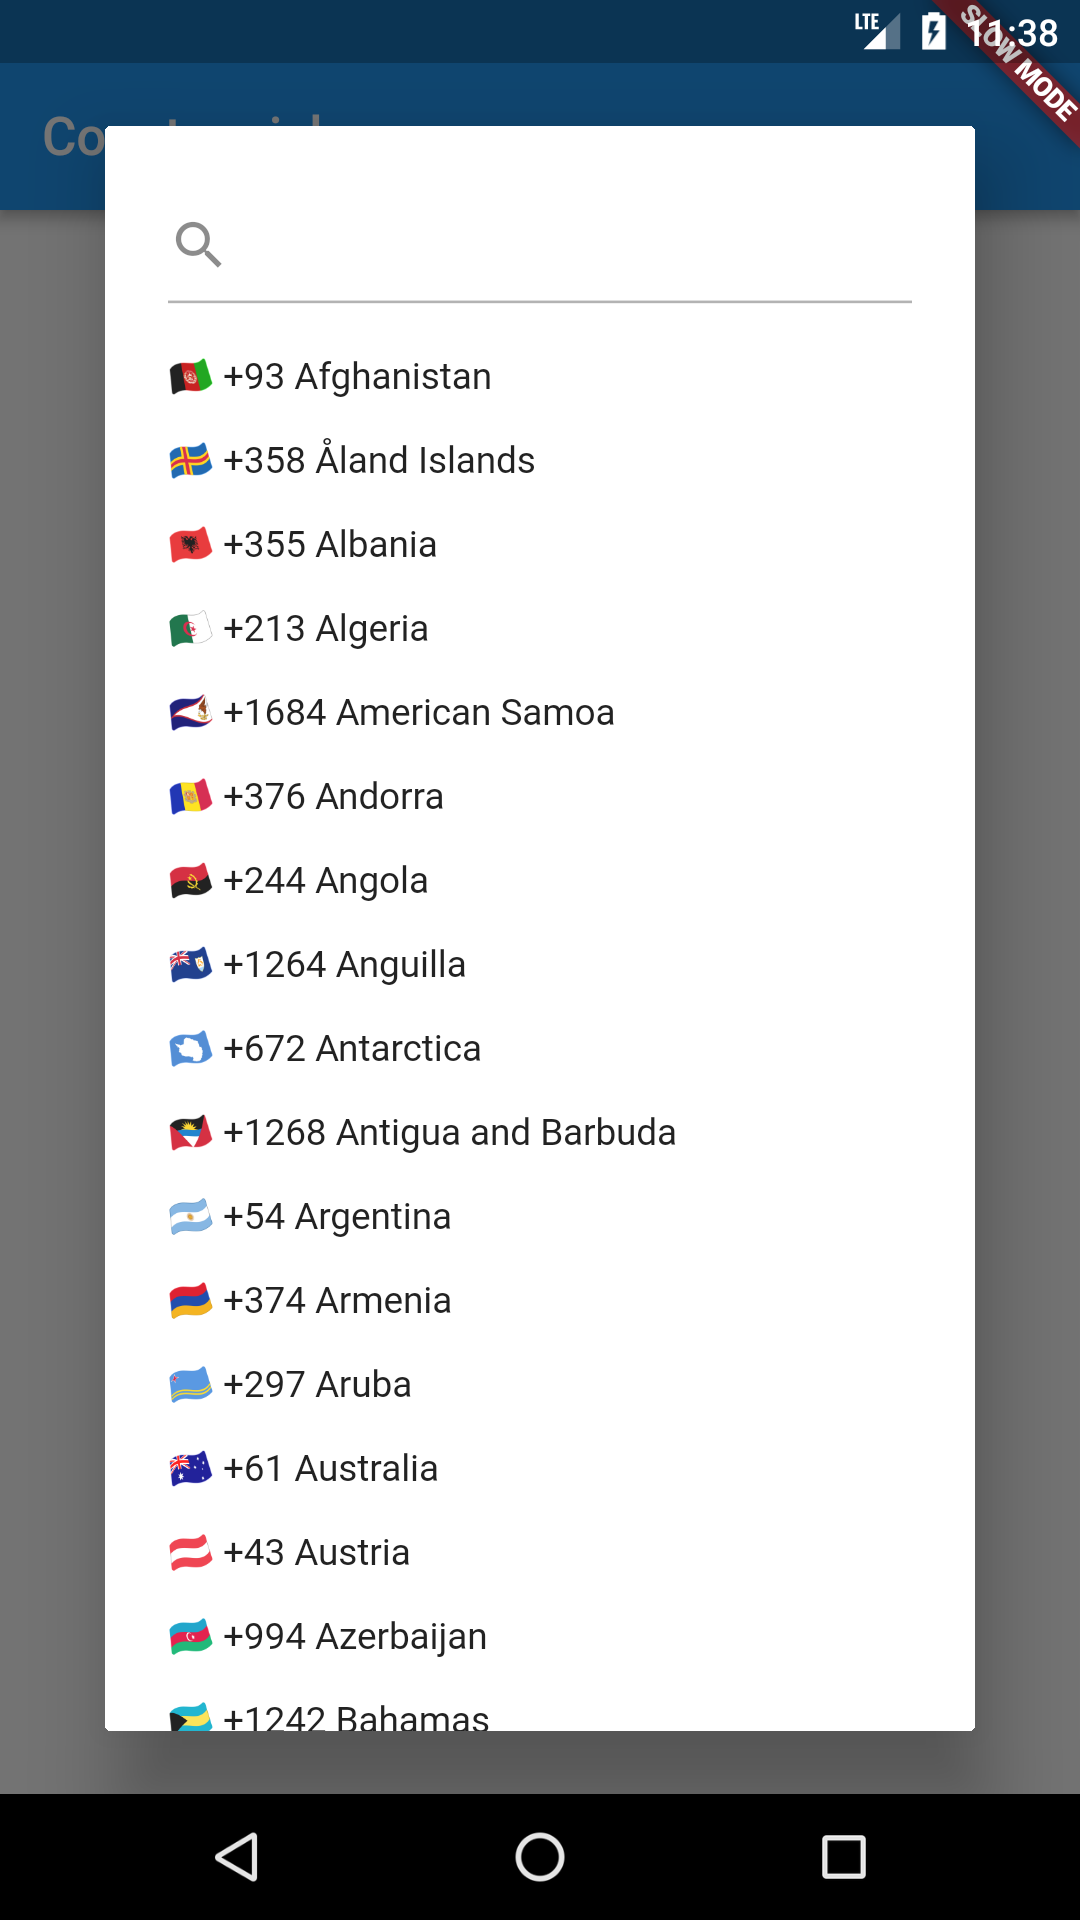
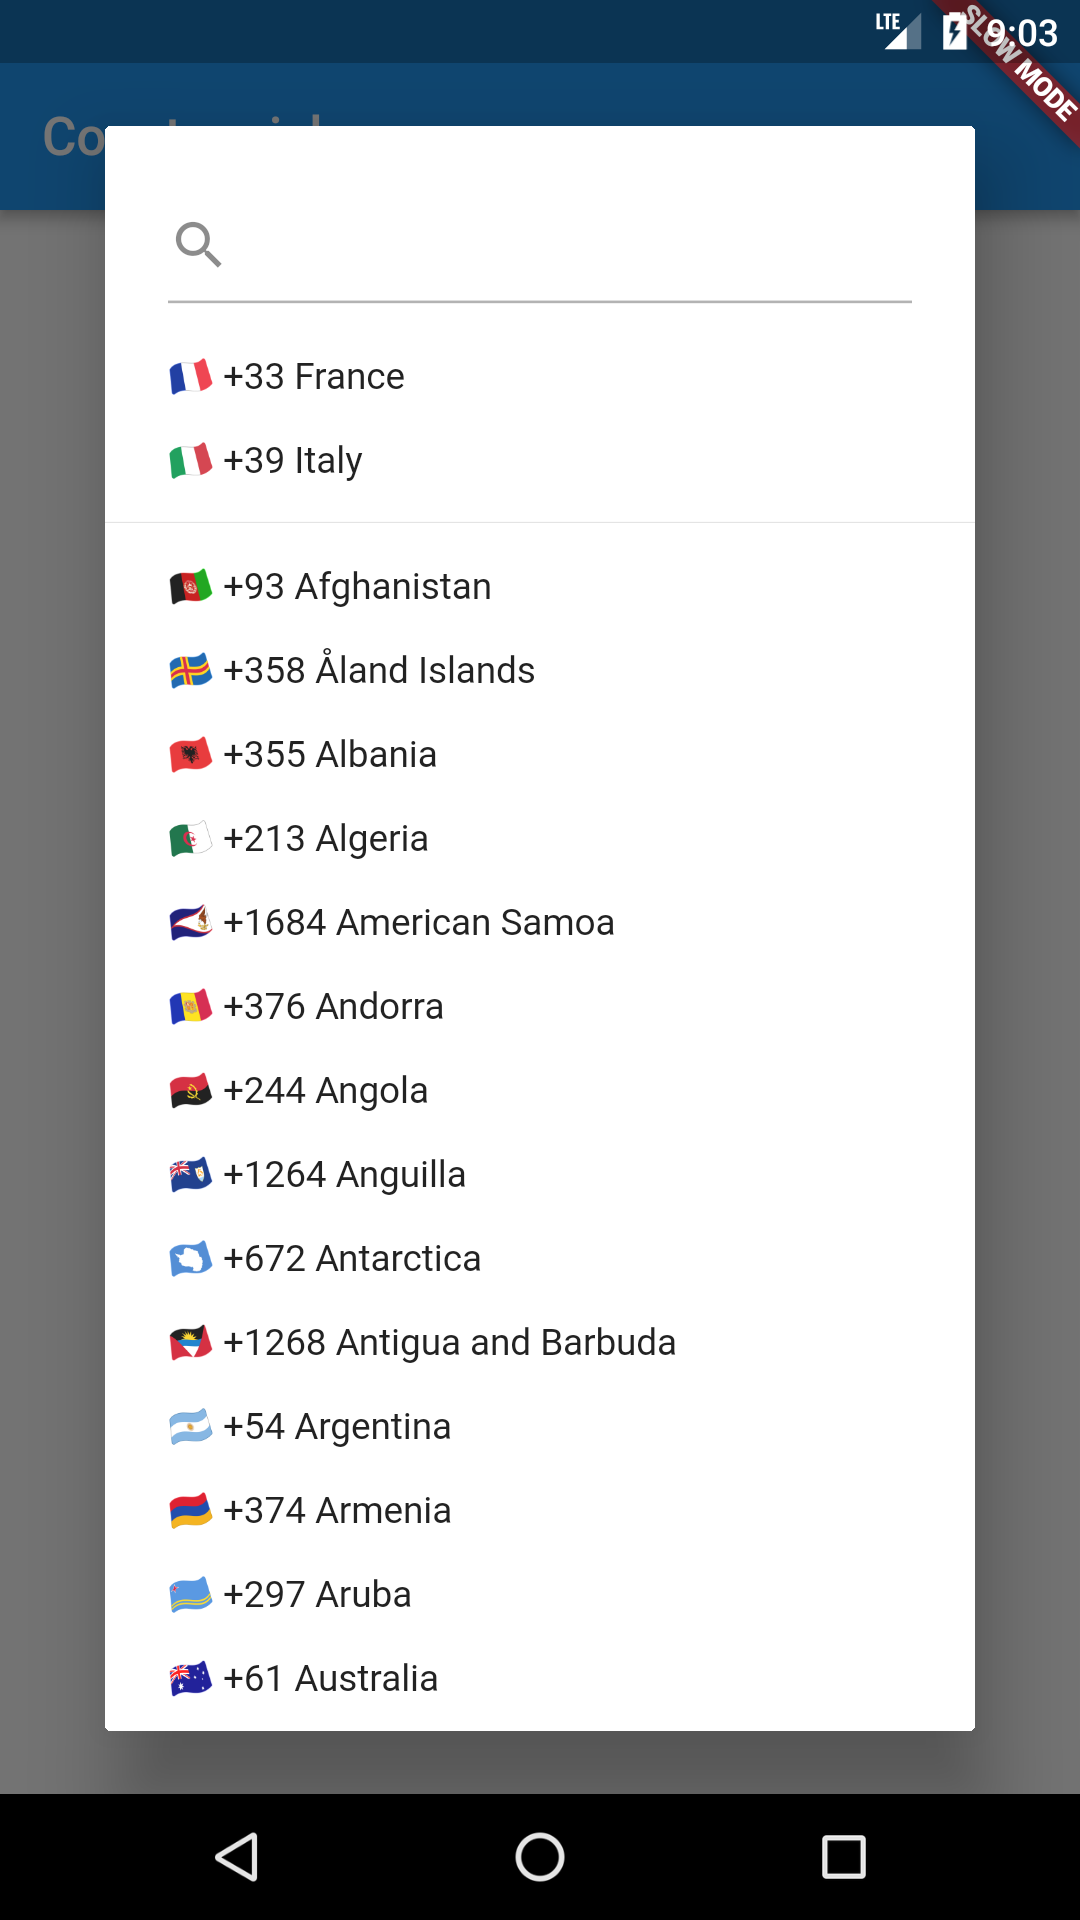
add favorite country options

diff --git a/lib/selection_dialog.dart b/lib/selection_dialog.dart
@@ -3,8 +3,9 @@ import 'package:country_code_picker/celement.dart';
 
 class SelectionDialog extends StatefulWidget {
   final List<CElement> elements;
+  final List<CElement> favoriteElements;
 
-  SelectionDialog(this.elements);
+  SelectionDialog(this.elements, this.favoriteElements);
 
   @override
   State<StatefulWidget> createState() => new _SelectionDialogState();
@@ -15,17 +16,35 @@ class _SelectionDialogState extends State<SelectionDialog> {
 
   @override
   Widget build(BuildContext context) => new SimpleDialog(
-      title: new TextField(
-        decoration: new InputDecoration(prefixIcon: new Icon(Icons.search)),
-        onChanged: _filterElements,
+      title: new Column(
+        children: <Widget>[
+          new TextField(
+            decoration: new InputDecoration(prefixIcon: new Icon(Icons.search)),
+            onChanged: _filterElements,
+          ),
+        ],
       ),
-      children: showedElements
+      children: [
+        widget.favoriteElements.isEmpty
+            ? new Container()
+            : new Column(
+                crossAxisAlignment: CrossAxisAlignment.start,
+                children: <Widget>[]
+                  ..addAll(widget.favoriteElements.map((f) {
+                    return new SimpleDialogOption(
+                        child: new Text(f.toLongString()),
+                        onPressed: () {
+                          _selectItem(f);
+                        });
+                  }).toList())
+                  ..add(new Divider())),
+      ]..addAll(showedElements
           .map((e) => new SimpleDialogOption(
               child: new Text(e.toLongString()),
               onPressed: () {
                 _selectItem(e);
               }))
-          .toList());
+          .toList()));
 
   @override
   void initState() {
@@ -39,7 +58,7 @@ class _SelectionDialogState extends State<SelectionDialog> {
       showedElements = widget.elements
           .where((e) =>
               e.code.contains(s) ||
-              e.dial_code.contains(s) ||
+              e.dialCode.contains(s) ||
               e.name.toUpperCase().contains(s))
           .toList();
     });

diff --git a/lib/country_code_picker.dart b/lib/country_code_picker.dart
@@ -6,10 +6,11 @@ import 'package:country_code_picker/selection_dialog.dart';
 import 'package:country_code_picker/celement.dart';
 
 class CountryCodePicker extends StatefulWidget {
-  final Function(CElement) onChanged;
+  final Function(String) onChanged;
   final String initialSelection;
+  final List<String> favorites;
 
-  CountryCodePicker({this.onChanged, this.initialSelection});
+  CountryCodePicker({this.onChanged, this.initialSelection, this.favorites});
 
   @override
   State<StatefulWidget> createState() {
@@ -19,7 +20,7 @@ class CountryCodePicker extends StatefulWidget {
         .map((s) => new CElement(
               name: s['name'],
               code: s['code'],
-              dial_code: s['dial_code'],
+              dialCode: s['dial_code'],
               flag: s['flag'],
             ))
         .toList();
@@ -30,6 +31,7 @@ class CountryCodePicker extends StatefulWidget {
 class _CountryCodePickerState extends State<CountryCodePicker> {
   CElement selectedItem;
   List<CElement> elements = [];
+  List<CElement> favoriteElements = [];
 
   _CountryCodePickerState(this.elements);
 
@@ -45,23 +47,31 @@ class _CountryCodePickerState extends State<CountryCodePicker> {
       selectedItem = elements.firstWhere(
           (e) => e.code.toUpperCase() == widget.initialSelection.toUpperCase(),
           orElse: () => elements[0]);
-    }else{
+    } else {
       selectedItem = elements[0];
     }
+
+    favoriteElements = elements
+        .where((e) =>
+            widget.favorites.firstWhere((f) => e.code == f.toUpperCase(),
+                orElse: () => null) !=
+            null)
+        .toList();
+    print(favoriteElements);
     super.initState();
   }
 
   void _showSelectionDialog() {
     showDialog(
       context: context,
-      child: new SelectionDialog(elements),
+      child: new SelectionDialog(elements, favoriteElements),
     ).then((e) {
       if (e != null) {
         setState(() {
           selectedItem = e;
         });
         if (widget.onChanged != null) {
-          widget.onChanged(e);
+          widget.onChanged(e.dialCode);
         }
       }
     });

diff --git a/lib/celement.dart b/lib/celement.dart
@@ -2,16 +2,16 @@ class CElement {
   String name;
   String flag;
   String code;
-  String dial_code;
+  String dialCode;
 
-  CElement({this.name, this.flag, this.code, this.dial_code});
+  CElement({this.name, this.flag, this.code, this.dialCode});
 
   @override
   String toString() {
-    return "$flag $dial_code";
+    return "$flag $dialCode";
   }
 
   String toLongString() {
-    return "$flag $dial_code $name";
+    return "$flag $dialCode $name";
   }
 }

diff --git a/README.md b/README.md
@@ -11,18 +11,18 @@ A flutter package for showing a country code selector.
 Just put the component in your application setting the onChanged callback.
 
  ```dart
- ......
+
  @override
   Widget build(BuildContext context) => new Scaffold(
       body: new Center(
         child: new CountryCodePicker(
           onChanged: print,
+          initialSelection: 'IT',
+          favorites: ['IT','FR'],
         ),
       ));
-.....
- ```
 
- It's also possible to select the initial selection using the country code.
+ ```
 
 ## Known issues
 

diff --git a/CHANGELOG.md b/CHANGELOG.md
@@ -1,3 +1,7 @@
 ## 0.0.1
 
 Initial release
+
+## 0.0.2
+
+Add favorite countries option.
